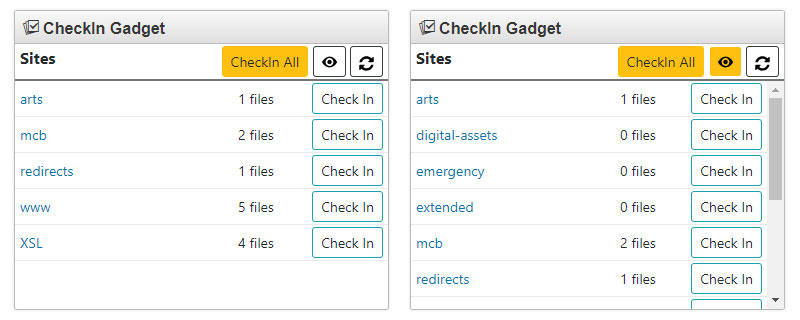
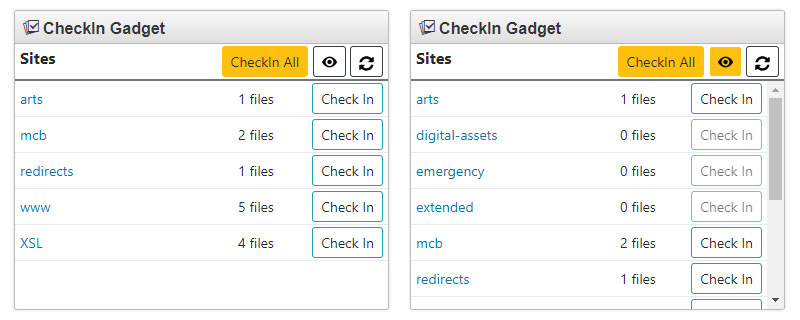
Dev/v1.0.1 (#29)
See PR for updates.

Resolve #28.

Resolve #29 

## Commits

* Update test name. References #28.

* Update width of table tbody.

* Buttons should be disabled if the site does not have files to check back in.

* Update version.

* Update thumbnail image.

* Update demo image to show disabled buttons.

Changed region(s): [[0.875, 0.4062, 0.9688, 0.4688], [0.875, 0.625, 0.9375, 0.6875], [0.875, 0.5, 0.9375, 0.5625]]

diff --git a/source/js/app.js b/source/js/app.js
@@ -50,13 +50,17 @@ $(document).ready(function () {
 
             var checkInButton = $('<a/>').attr({ class: 'btn btn-outline-info btn-sm float-right'}).html('Check In');
             
-            //add click event:
-            checkInButton.on('click', function(){
-                checkInButtonClick(_active);
-            });
+            if (_active.length == 0){
+                //add disabled class to sites with 0 files:
+                $(checkInButton).addClass("disabled");
+            }else{
+                //add click event to site with files checked out:
+                checkInButton.on('click', function(){
+                    checkInButtonClick(_active);
+                });
+            }
 
             $(".site." + value.site).find('.button').append( checkInButton );
-            //$("#checkedOut tbody").append( _html );
         });
     }
 
@@ -73,6 +77,7 @@ $(document).ready(function () {
                 
         // update visuals:
         $(".site." + _site).find(".count").html("0 files");
+        $(".site." + _site).find(".btn").addClass("disabled");
         
         $(".site." + _site).addClass("count0");
         if ($(".toggleSites").hasClass("active")){

diff --git a/test/files-test.js b/test/files-test.js
@@ -19,7 +19,7 @@ afterEach(function() {
 
 global.gadget = {account : "TEST"}
 
-	describe('test sites', function() {
+	describe('test files', function() {
 
 		it('should pull list of files data from stub', function(){
 		

diff --git a/source/scss/app.scss b/source/scss/app.scss
@@ -17,7 +17,7 @@ table#checkedOut thead th {
 
 table#checkedOut tbody {
 	display: inline-block;
-	width: 373px;
+	width: 100%;
 	height:228px;
 	overflow-y:auto;
 }

diff --git a/README.md b/README.md
@@ -4,7 +4,7 @@ This gadget displays the number of files currently checked out to the user in ea
 
 ![two demos of what the checkin gadget looks like](docs/checkin-demo.jpg)
 
-## Version v1.0.0
+## Version v1.0.1
 
 No longer in development, v1 is ready for prime time! It has been a little over two years since this gadget has been refreshed. The latest version includes fixes to prevent files being checked in that are under workflow, scheduled or set to expire. Also, it has gone back to being exclusively a dashboard gadget as the sidebar functionality was causing some issues on the dashboard.
 
